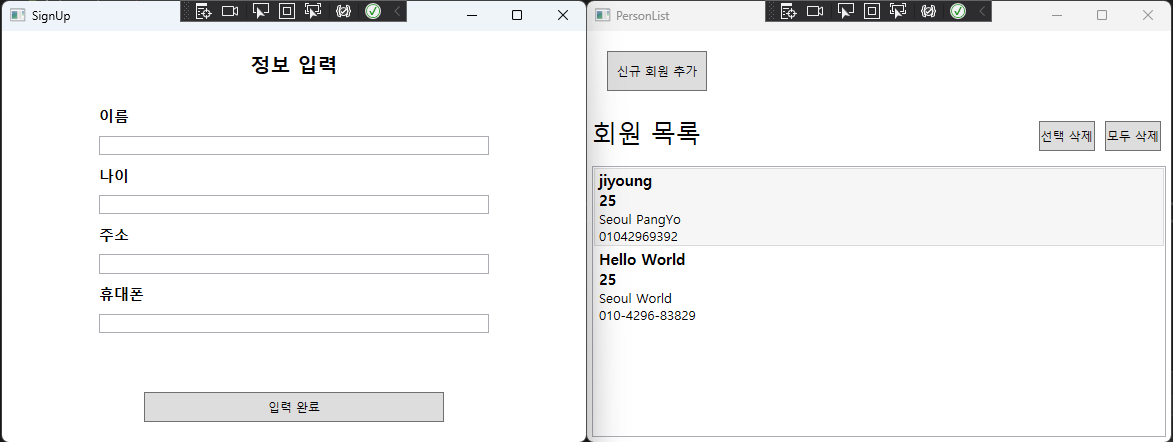
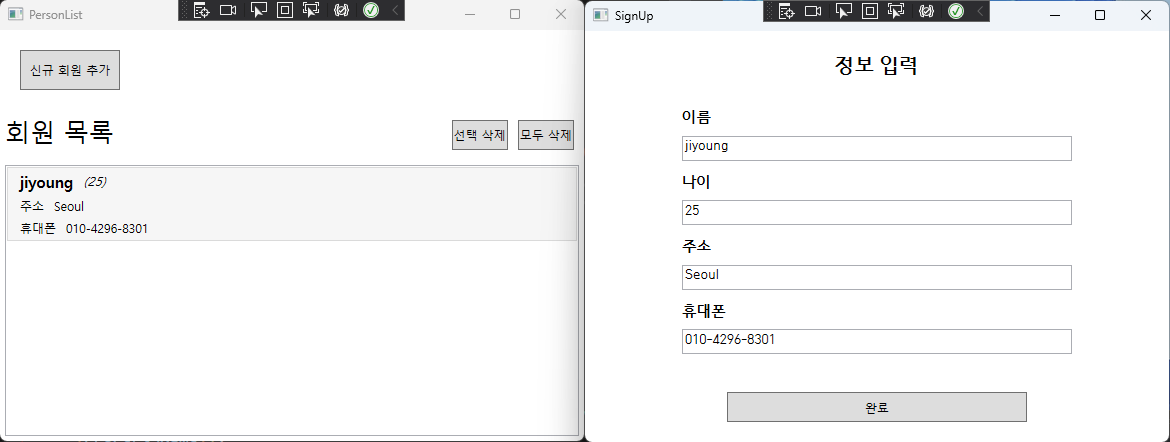
Update PersonList/run.png and Implement LoadPersonInfo Function

diff --git a/PersonList/SignUpModal.xaml b/PersonList/SignUpModal.xaml
@@ -6,26 +6,50 @@
         mc:Ignorable="d"
         Title="SignUp" Height="450" Width="600">
     <Grid Margin="20" >
+        <Grid.Resources>
+            <Style x:Key="h1Text">
+                <Setter Property="TextBlock.FontFamily" Value="함초롬돋움"/>
+                <Setter Property="TextBlock.FontSize" Value="20"/>
+                <Setter Property="TextBlock.FontWeight" Value="Bold"/>
+                <Setter Property="TextBlock.HorizontalAlignment" Value="Center"/>
+            </Style>
+            <Style x:Key="h2Text">
+                <Setter Property="TextBlock.FontFamily" Value="함초롬돋움"/>
+                <Setter Property="TextBlock.Margin" Value="5"/>
+                <Setter Property="TextBlock.FontSize" Value="15"/>
+                <Setter Property="TextBlock.FontWeight" Value="Bold"/>
+            </Style>
+            <Style x:Key="h2TextBox">
+                <Setter Property="TextBox.FontFamily" Value="함초롬돋움"/>
+                <Setter Property="TextBox.Margin" Value="5"/>
+                <Setter Property="TextBox.FontSize" Value="13"/>
+                <Setter Property="TextBox.Height" Value="25"/>
+            </Style>
+            <Style x:Key="btnStyle">
+                <Setter Property="Button.FontFamily" Value="함초롬돋움"/>
+                <Setter Property="Button.Width" Value="300"/>
+            </Style>
+        </Grid.Resources>
         <Grid.RowDefinitions>
             <RowDefinition Height="30"/>
             <RowDefinition Height="30*"/>
             <RowDefinition Height="30"/>
         </Grid.RowDefinitions>
         
-        <TextBlock Text="정보 입력" FontSize="20" FontWeight="Bold" HorizontalAlignment="Center" Grid.Row="0"/>
+        <TextBlock Text="정보 입력" Style="{StaticResource h1Text}" Grid.Row="0"/>
         <StackPanel Width="400" Margin="20" Grid.Row="1" >
-            <TextBlock Text="이름" Margin="5" FontSize="15" FontWeight="Bold" />
-            <TextBox Name="TxtName" Margin="5" FontSize="13"/>
+            <TextBlock Text="이름" Style="{StaticResource h2Text}"/>
+            <TextBox Text="{Binding Name}" Style="{StaticResource h2TextBox}"/>
 
-            <TextBlock Text="나이" Margin="5" FontSize="15" FontWeight="Bold"/>
-            <TextBox Name="TxtAge" Margin="5" FontSize="13"/>
+            <TextBlock Text="나이" Style="{StaticResource h2Text}"/>
+            <TextBox Text="{Binding Age}" Style="{StaticResource h2TextBox}"/>
 
-            <TextBlock Text="주소" Margin="5" FontSize="15" FontWeight="Bold" />
-            <TextBox Name="TxtAddress" Margin="5" FontSize="13" />
+            <TextBlock Text="주소" Style="{StaticResource h2Text}"/>
+            <TextBox Text="{Binding Address}" Style="{StaticResource h2TextBox}" />
 
-            <TextBlock Text="휴대폰" Margin="5" FontSize="15" FontWeight="Bold" />
-            <TextBox Name="TxtPhoneNumber" Margin="5" FontSize="13" />
+            <TextBlock Text="휴대폰" Style="{StaticResource h2Text}"/>
+            <TextBox Text="{Binding PhoneNumber}" Style="{StaticResource h2TextBox}" />
         </StackPanel>
-        <Button Click="Button_Click" Content="입력 완료" Grid.Row="2" Width="300"/>
+        <Button Click="Button_Click" Content="완료" Grid.Row="2" Style="{StaticResource btnStyle}"/>
     </Grid>
 </Window>

diff --git a/PersonList/MainWindow.xaml b/PersonList/MainWindow.xaml
@@ -31,7 +31,7 @@
             <Button Content="모두 삭제" FontSize="12" Margin = "5,10" Command="{Binding DeleteAllCommand}"/>
         </StackPanel>
 
-        <ListBox Grid.Row="2" Grid.Column="0" Grid.ColumnSpan="3" Margin="5" ItemsSource="{Binding Persons}" SelectedItem="{Binding selectedItem}">
+        <ListBox Grid.Row="2" Grid.Column="0" Grid.ColumnSpan="3" Margin="5" ItemsSource="{Binding Persons}" SelectedItem="{Binding selectedItem}" d:ItemsSource="{d:SampleData ItemCount=5}">
             <i:Interaction.Triggers>
                 <i:EventTrigger EventName="MouseDoubleClick">
                     <i:InvokeCommandAction Command="{Binding LoadInfoCommand}"/>
@@ -41,10 +41,20 @@
             <ListBox.ItemTemplate>
                 <DataTemplate>
                     <StackPanel>
-                        <TextBlock Text="{Binding Name}" FontWeight="Bold" FontSize="15"/>
-                        <TextBlock Text="{Binding Age}" FontWeight="Bold" FontSize="15"/>
-                        <TextBlock Text="{Binding Address}"  FontSize="13"/>
-                        <TextBlock Text="{Binding PhoneNumber}" FontSize="13"/>
+                        <StackPanel Orientation="Horizontal" Margin="3">
+                            <TextBlock Text="{Binding Name}" FontWeight="Bold" FontSize="15" Margin="5,0,5,0"/>
+                            <TextBlock Text="{Binding Age, StringFormat='({0:d})'}" FontStyle="Italic" FontSize="13" Margin="5,0,5,0" />
+                        </StackPanel>
+
+                        <StackPanel Orientation="Horizontal" Margin="3">
+                            <TextBlock Text="주소" Margin="5,0,5,0"/>
+                            <TextBlock Text="{Binding Address}" Margin="5,0,5,0"/>
+                        </StackPanel>
+
+                        <StackPanel Orientation="Horizontal" Margin="3">
+                            <TextBlock Text="휴대폰" Margin="5,0,5,0"/>
+                            <TextBlock Text="{Binding PhoneNumber}" Margin="5,0,5,0"/>
+                        </StackPanel>
                     </StackPanel>
                 </DataTemplate>
             </ListBox.ItemTemplate>

diff --git a/PersonList/PersonViewModel.cs b/PersonList/PersonViewModel.cs
@@ -1,9 +1,6 @@
-using System;
-using System.Collections.ObjectModel;
+using System.Collections.ObjectModel;
 using System.ComponentModel;
-using System.Runtime.Remoting.Metadata.W3cXsd2001;
 using System.Windows;
-using System.Windows.Controls;
 using System.Windows.Input;
 
 namespace PersonList
@@ -56,7 +53,8 @@ namespace PersonList
         private void LoadInfo()
         {
             var person = selectedItem as PersonModel;
-
+            var modal = new SignUpModal(person);
+            modal.ShowDialog();
         }
 
         #region Command

diff --git a/PersonList/SignUpModal.xaml.cs b/PersonList/SignUpModal.xaml.cs
@@ -14,9 +14,15 @@ namespace PersonList
             DataContext = new PersonModel();
         }
 
+        internal SignUpModal(PersonModel person)
+        {
+            InitializeComponent();
+            DataContext = person;
+        }
+
         private void Button_Click(object sender, RoutedEventArgs e)
         {
-            this.newPerson = new PersonModel(TxtName.Text, Int32.Parse(TxtAge.Text), TxtAddress.Text, TxtPhoneNumber.Text);
+            this.newPerson = DataContext as PersonModel;
             this.Close();
         }
 

diff --git a/PersonList/PersonModel.cs b/PersonList/PersonModel.cs
@@ -1,6 +1,4 @@
-using System.ComponentModel;
-
-namespace PersonList
+namespace PersonList
 {
     internal class PersonModel
     {

diff --git a/README.md b/README.md
@@ -85,7 +85,13 @@ For example, if I want to dispose textblock in the grid (1,1) and (2,1), it can 
 - Q) Is it a good pattern that model depends on a viewModel? If not, should a viewModel have models as a member instance?
 - A) ?
    
+- Q) Do I only have to make DelegateCommand to allocate any method to ICommand? Or is there any solution or library to use something like DelegateCommand?
+- A) ?
+
 - Q) How can modal send any data to their parent windows?
+- A) ?
+
+- Q) Can I use string format in view (xaml) or is it better to do this in viewModel when showing data?
 - A) ?
 
 ### Screenshot of a running process
